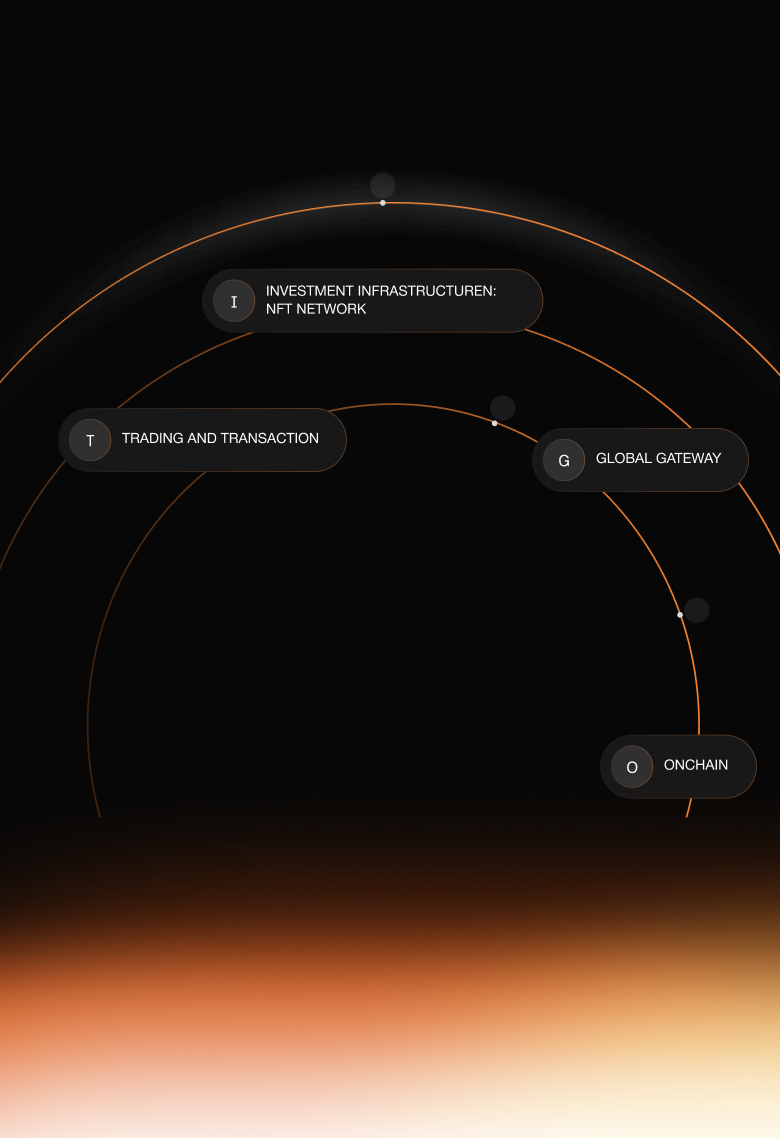
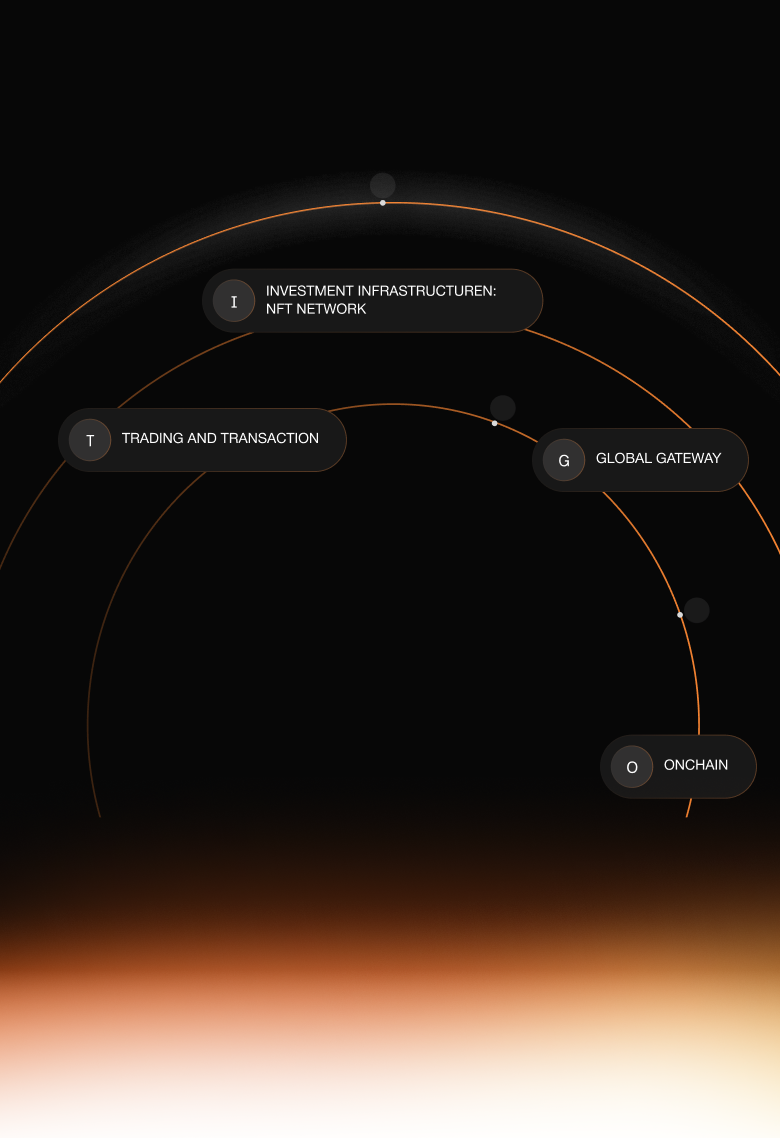
done

Changed region(s): [[0.0, 0.8612, 0.9846, 1.0]]

diff --git a/features/WhyChoose.tsx b/features/WhyChoose.tsx
@@ -11,6 +11,7 @@ import React from "react";
 import UserIcon from "../assets/vectors/UserIcon";
 import CircleIcon from "../assets/vectors/CircleIcon";
 import BarIcon from "../assets/vectors/BarIcon";
+import { useMediaQuery } from "@mantine/hooks";
 
 const data = [
   {
@@ -60,12 +61,15 @@ const data = [
 ];
 
 function WhyChoose() {
+  const matches = useMediaQuery("(min-width: 61em) and (max-width: 90em)");
+  const is1440 = useMediaQuery("(min-width: 1440px) and (max-width: 1920px)");
+
   return (
     <Container
       fluid
       mt={{ base: 90 }}
       py={{ base: 60, lg: 100, xl: 180 }}
-      px={{ lg: 100, xl: 120 }}
+      px={matches ? 40 : { lg: 100, xl: 120 }}
     >
       <Flex
         direction={{ base: "column", sm: "row" }}
@@ -114,7 +118,7 @@ function WhyChoose() {
             {i !== data.length - 1 && (
               <Divider
                 visibleFrom="xl"
-                mx={{ base: 60, lg: 75 }}
+                mx={is1440 ? 30 : { base: 60, lg: 75 }}
                 orientation={"vertical"}
                 variant={"dashed"}
                 h={"75%"}
@@ -132,44 +136,46 @@ function WhyChoose() {
 
 type FeatureItemProps = (typeof data)[0];
 
-const FeatureItem = ({ icon, subTitle, title, content }: FeatureItemProps) => (
-  <Box w={{ base: "100%", lg: 220, xl: "80%" }}>
-    <Flex
-      align={"center"}
-      gap={10}
-      bg={"#FE883310"}
-      py={4}
-      px={10}
-      style={{
-        borderRadius: 12,
-      }}
-      w={"fit-content"}
-    >
-      <Box mb={-6}>{icon}</Box>
-      <Text fw={500} lh={"100%"} c={"#fe8833"} fz={{ base: 11, xl: 16 }}>
-        {subTitle}
+const FeatureItem = ({ icon, subTitle, title, content }: FeatureItemProps) => {
+  return (
+    <Box w={{ base: "100%", lg: 220, xl: "80%" }}>
+      <Flex
+        align={"center"}
+        gap={10}
+        bg={"#FE883310"}
+        py={4}
+        px={10}
+        style={{
+          borderRadius: 12,
+        }}
+        w={"fit-content"}
+      >
+        <Box mb={-6}>{icon}</Box>
+        <Text fw={500} lh={"100%"} c={"#fe8833"} fz={{ base: 11, xl: 16 }}>
+          {subTitle}
+        </Text>
+      </Flex>
+
+      <Text
+        lh={"120%"}
+        fw={500}
+        mt={{ base: 40, xl: 60 }}
+        fz={{ base: 16, xl: 24 }}
+      >
+        {title}
       </Text>
-    </Flex>
 
-    <Text
-      lh={"120%"}
-      fw={500}
-      mt={{ base: 40, xl: 60 }}
-      fz={{ base: 16, xl: 24 }}
-    >
-      {title}
-    </Text>
-
-    <Text
-      fw={500}
-      lh={"150%"}
-      c={"#6b7280"}
-      mt={{ base: 21, lg: 24, xl: 32 }}
-      fz={{ base: 11, lg: 16 }}
-    >
-      {content}
-    </Text>
-  </Box>
-);
+      <Text
+        fw={500}
+        lh={"150%"}
+        c={"#6b7280"}
+        mt={{ base: 21, lg: 24, xl: 32 }}
+        fz={{ base: 11, lg: 16 }}
+      >
+        {content}
+      </Text>
+    </Box>
+  );
+};
 
 export default WhyChoose;

diff --git a/features/About.tsx b/features/About.tsx
@@ -11,14 +11,18 @@ import {
 } from "@mantine/core";
 import React from "react";
 import { AboutBG, BackedImg, CardCollect, GatewayImg } from "../assets/imgs";
+import { useMediaQuery } from "@mantine/hooks";
 
 function About() {
+  const matches = useMediaQuery("(min-width: 61em) and (max-width: 90em)");
+  const is1440 = useMediaQuery("(min-width: 1440px) and (max-width: 1920px)");
+
   return (
     <Box bg={"#000000"} pos={"relative"} id="about">
       <Box
         pos={"absolute"}
-        left={{ base: "5%", lg: "20%", xl: "15%" }}
-        top={{ base: "55%", lg: "50%", xl: "70%" }}
+        left={matches ? "10%" : { base: "5%", lg: "20%", xl: "15%" }}
+        top={is1440 ? "55%" : { base: "55%", lg: "50%", xl: "70%" }}
         style={{
           zIndex: 2,
         }}
@@ -38,17 +42,20 @@ function About() {
       >
         <AspectRatio
           ratio={279 / 269}
-          w={{ base: 80, sm: 200, lg: 279, xl: 419 }}
+          w={is1440 ? 300 : { base: 80, sm: 200, lg: 279, xl: 419 }}
           data-aos={"zoom-in-up"}
         >
           <Image src={CardCollect.src} alt="" />
         </AspectRatio>
       </Box>
       <AspectRatio ratio={1920 / 1358}>
-        <BackgroundImage src={AboutBG.src} mih={{ lg: "100vh" }}>
+        <BackgroundImage
+          src={AboutBG.src}
+          mih={matches ? "auto" : { lg: "100vh" }}
+        >
           <Container
             fluid
-            px={{ lg: 160 }}
+            px={matches ? 40 : { lg: 160 }}
             pt={{ base: 200, lg: 240, xl: 360 }}
           >
             <Flex

diff --git a/features/Pioneer.tsx b/features/Pioneer.tsx
@@ -14,7 +14,6 @@ import {
 import { useMediaQuery } from "@mantine/hooks";
 import React from "react";
 import {
-  CircleAbstract,
   CommunityBG,
   CommunityMobileBG,
   DiscoverButton,
@@ -27,6 +26,8 @@ import styles from "./pioneer.module.css";
 function Pioneer() {
   const isMobile = useMediaQuery("(max-width: 801px)");
   const isTablet = useMediaQuery("(min-width: 801px)");
+  const matches = useMediaQuery("(min-width: 61em) and (max-width: 90em)");
+
   return (
     <Box
       pos={"relative"}
@@ -36,7 +37,6 @@ function Pioneer() {
       }}
     >
       <Box
-        mih={{ lg: "100vh" }}
         bg={"linear-gradient(#070707 96%, #3a1f0d)"}
         style={{
           borderTopLeftRadius: isMobile ? 40 : isTablet ? 52 : 80,
@@ -48,7 +48,7 @@ function Pioneer() {
           align={"center"}
           justify={"space-between"}
           gap={66}
-          px={{ base: 16, lg: 119, xl: 145 }}
+          px={matches ? 40 : { base: 16, lg: 119, xl: 145 }}
           py={{ base: 60, lg: 105, xl: 140 }}
         >
           <Box w={{ base: "100%", lg: "50%" }} data-aos={"fade-up"}>
@@ -82,6 +82,7 @@ function Pioneer() {
                 border: "1px solid #FC5A4088",
               }}
               fw={500}
+              fz={{ base: 12, lg: 16 }}
             >
               How, you ask?
             </Button>

diff --git a/features/Footer.tsx b/features/Footer.tsx
@@ -15,15 +15,21 @@ import ArrowUpRight from "../assets/vectors/ArrowUpRight";
 import SocialMenu from "../components/Footer/SocialMenu";
 import CategoryMenu from "../components/Footer/CategoryMenu";
 import PolicyMenu from "../components/Footer/PolicyMenu";
+import { useMediaQuery } from "@mantine/hooks";
 
 function Footer() {
+  const isMobile = useMediaQuery("(max-width: 1280px)");
   return (
     <Box
       w={"100%"}
       style={{
         zIndex: -1,
       }}
-      bg={"linear-gradient(#fefbf3, #fff)"}
+      bg={
+        isMobile
+          ? "linear-gradient(#fffdfc, #fff)"
+          : "linear-gradient(#fefbf3, #fff)"
+      }
     >
       <Box>
         <Container fluid pt={"md"} px={{ base: 16, lg: 106, xl: 160 }}>

diff --git a/features/Revenue.tsx b/features/Revenue.tsx
@@ -21,7 +21,7 @@ import PaymentFee from "../assets/vectors/PaymentFee";
 import DappFee from "../assets/vectors/DappFee";
 import AssetIcon from "../assets/vectors/AssetIcon";
 import IotIcon from "../assets/vectors/IotIcon";
-import { useHover } from "@mantine/hooks";
+import { useHover, useMediaQuery } from "@mantine/hooks";
 
 const revenueData = [
   {
@@ -51,11 +51,12 @@ const revenueData = [
 ];
 
 function Revenue() {
+  const matches = useMediaQuery("(min-width: 61em) and (max-width: 90em)");
   return (
     <Container
       fluid
       pb={{ base: 60, lg: 120, xl: 180 }}
-      px={{ lg: 100, xl: 120 }}
+      px={matches ? 40 : { lg: 100, xl: 120 }}
       id="revenue"
     >
       <Flex

diff --git a/features/hero.module.css b/features/hero.module.css
@@ -65,23 +65,19 @@
 }
 
 .sec {
-    animation: moveout-anim 5s linear infinite;
+    animation: moveout-anim 8s linear infinite;
 }
 
 .sec2 {
-    animation: moveout-anim 5s linear infinite;
-    animation-delay: 1s;
+    animation: moveout-anim 8s linear infinite;
+    animation-delay: 2s;
 }
 
 .sec3 {
-    animation: moveout-anim 5s linear infinite;
-    animation-delay: 2s;
+    animation: moveout-anim 8s linear infinite;
+    animation-delay: 4s;
 }
 .sec4 {
-    animation: moveout-anim 5s linear infinite;
-    animation-delay: 3s;
-}
-.sec5 {
-    animation: moveout-anim 5s linear infinite;
-    animation-delay: 4s;
+    animation: moveout-anim 8s linear infinite;
+    animation-delay: 6s;
 }

diff --git a/features/Hero.tsx b/features/Hero.tsx
@@ -190,11 +190,6 @@ function Hero() {
                     <Image src={SECLogo.src} alt="" />
                   </AspectRatio>
                 </Box>
-                <Box opacity={0} pos={"absolute"} className={styles[`sec5`]}>
-                  <AspectRatio ratio={64 / 78} w={{ base: 32, sm: 42, xl: 64 }}>
-                    <Image src={SECLogo.src} alt="" />
-                  </AspectRatio>
-                </Box>
                 {/* mask */}
                 <Box
                   w={"100%"}
